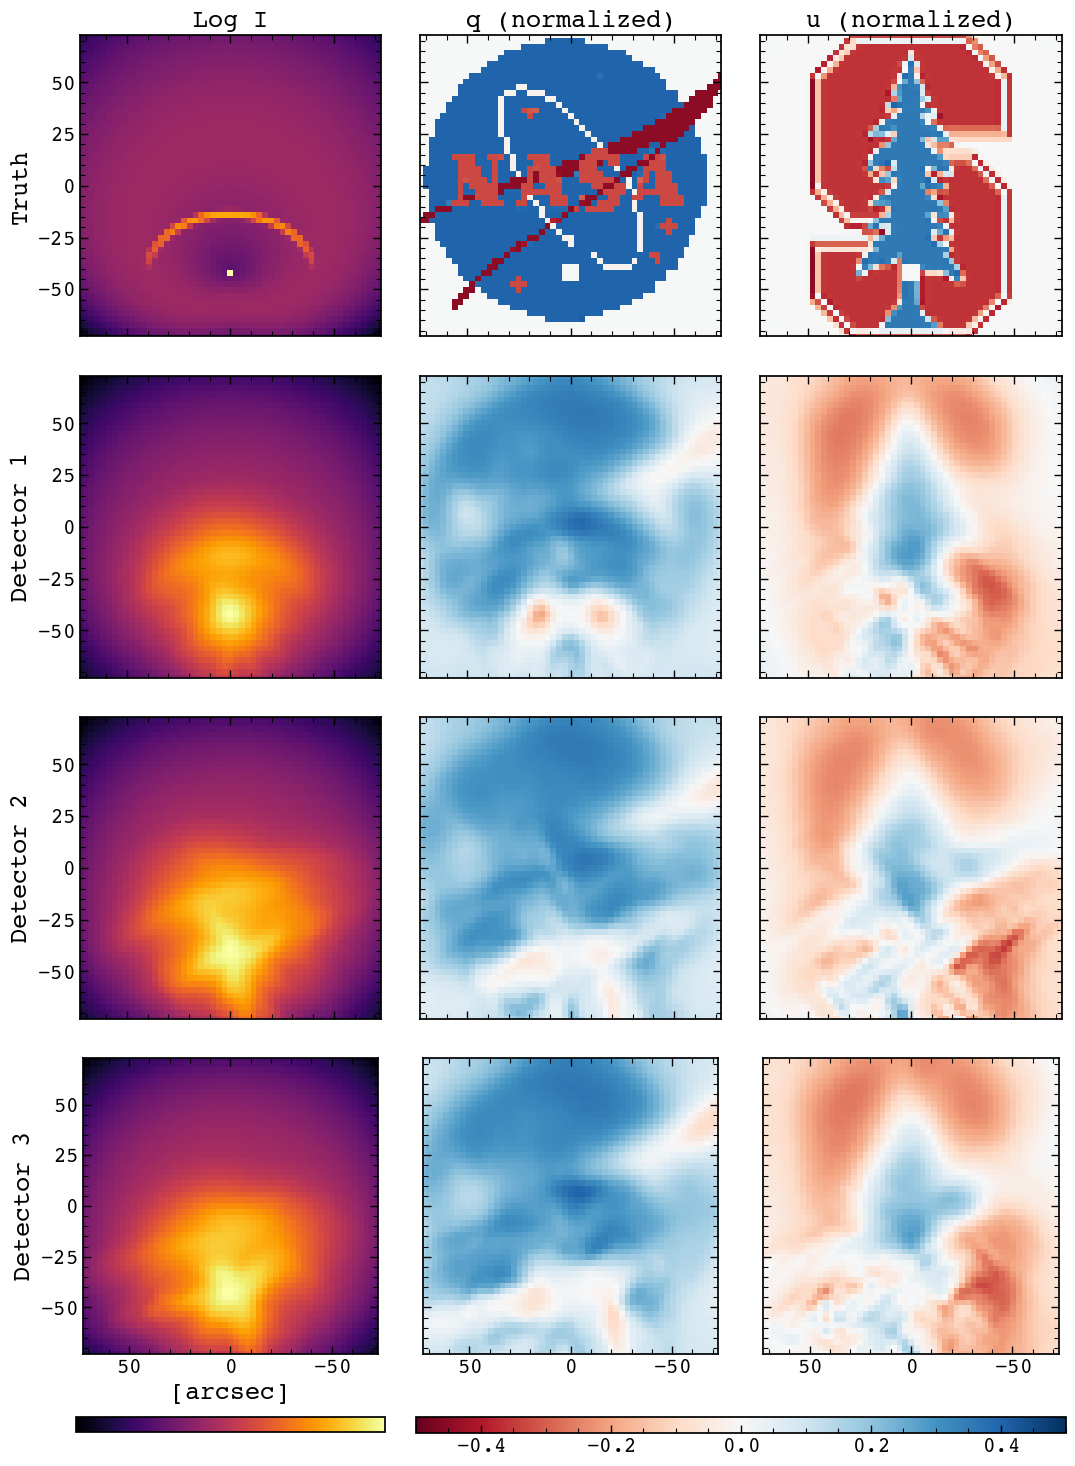
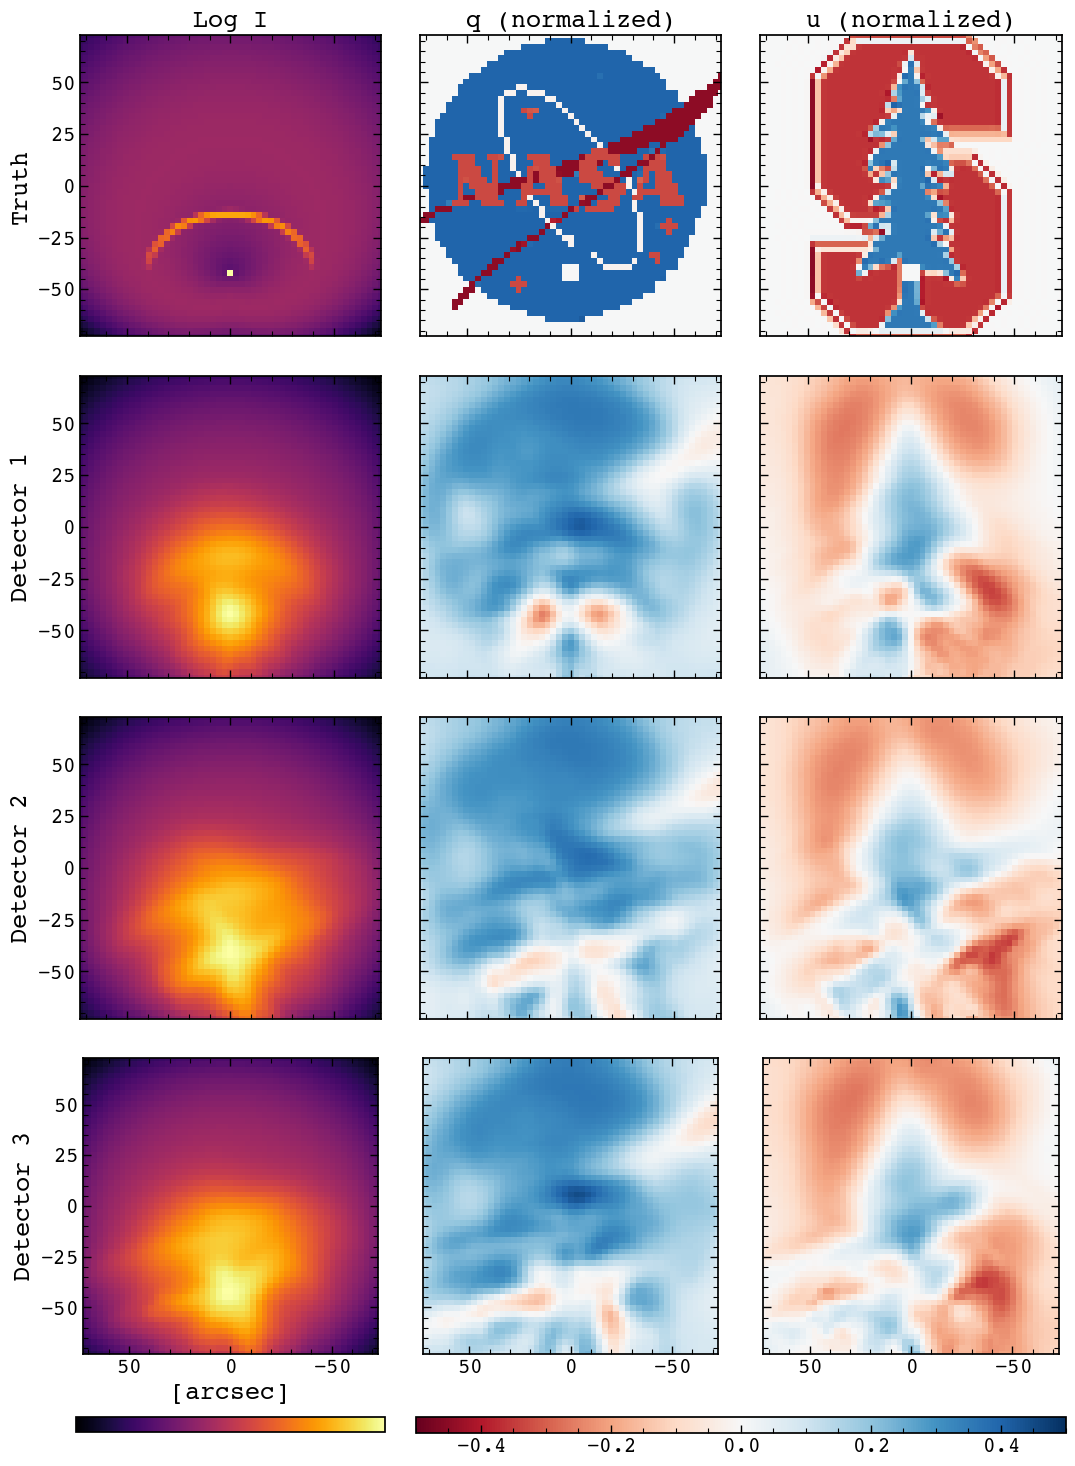
Updated parameters for Moments

diff --git a/examples/point-source.py b/examples/point-source.py
@@ -1,6 +1,5 @@
 import numpy as np
 import matplotlib.pyplot as plt
-import matplotlib as mpl
 import sys, os
 sys.path.append("../..")
 import leakagelib
@@ -21,7 +20,7 @@ if __name__ == "__main__":
 
     # Load the data
     ixpe_datas = leakagelib.IXPEData.load_all_detectors(source, "01002401")
-    ixpe_data = ixpe_datas[DETECTOR] # It's possible to load data for only one detector, but that's rarer so I'm loading all three and discarding all but the detector we want
+    ixpe_data = ixpe_datas[DETECTOR] # It's possible to load data for only one detector, but I'm loading all three and discarding all but the detector we want
 
     # Load the PSF
     psf = leakagelib.PSF.sky_cal(

diff --git a/src/settings.py b/src/settings.py
@@ -1,8 +1,8 @@
 NN_SIGMA_PARALLEL_SCALE = 1.13224018
 NN_KURT_SCALE = 0.93713909
 
-MOM_SIGMA_PARALLEL_SCALE = 1.01318019
-MOM_KURT_SCALE = 1.04007718
+MOM_SIGMA_PARALLEL_SCALE = 1.13902551
+MOM_KURT_SCALE = 1.00325358
 
 DATA_DIRECTORIES = [
     "/Users/jtd/Documents/research/ixpepl/data",
